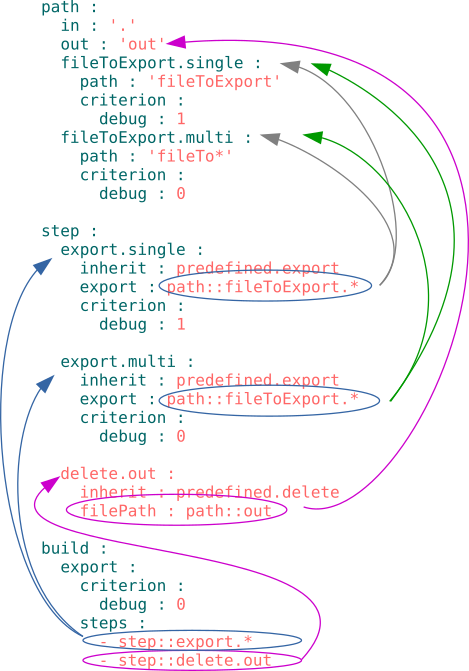
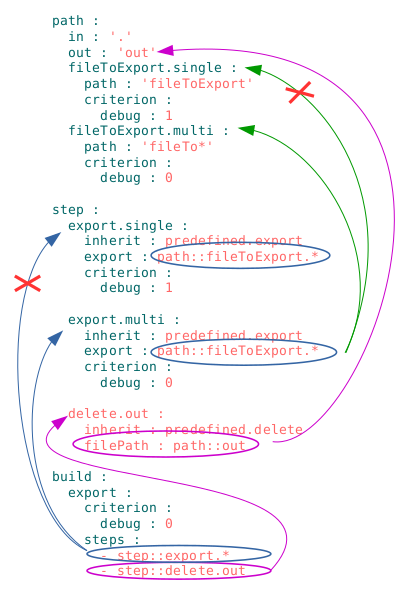
Correct selector concept

Changed region(s): [[0.0, 0.0, 1.0, 1.0], [0.5521, 0.18, 0.6973, 0.24]]

diff --git a/doc/version2.ukr/concept/Selector.md b/doc/version2.ukr/concept/Selector.md
@@ -10,7 +10,7 @@
 
 ![selector.png](./Images/selector.png)
 
-На рисунку в збірці `export` використовується два види селекторів. Селектор `step::export.*` є ґлобом бо містить `*`, читається: "вибрати всі кроки, які починаються на `export.`". Цей селектро може обрати кроки `export.single` i `export.multi` (позначено синіми стрілками). Вибір кроку здійснюється [порівнянням мапи критеріонів](Criterions.md). Аналогічно здійснюється вибір шляху селектором `path::fileToExport.*` кроками `step::export.single` i `step::export.multi`.  
+На рисунку в збірці `export` використовується два види селекторів. Селектор `step::export.*` є ґлобом бо містить `*`, читається: "вибрати всі кроки, які починаються на `export.`". Цей селектро може обрати кроки `export.single` i `export.multi` (позначено синіми стрілками). Вибір кроку здійснюється [порівнянням мапи критеріонів](Criterions.md) - співпадає  крок `export.multi`. Аналогічно здійснюється вибір шляху селектором `path::fileToExport.*` в кроці `step::export.multi`.  
 
 Селектори `step::delete.out` в збірці `export` і `path::out` в кроці `delete.out` - прості - мають пряме посилання на ресурс.  В `will-файлі` використовуються селектори вигляду `Тип ресурса :: Назва ресурса`.
 
@@ -38,9 +38,9 @@ step :
       debug : 0
 ```
 
-Крок `step::export` повинен вибрати один шлях `path::out.debug`. Так, як це цілком прогнозований і очікуваний результат то ророзбник помістив в селектро `path::out.*=1` асерт `=1`. Це гарантуватиме викидання помилки, якщо та трапиться і за цим селектором буде знайдено більше або менше одного шляху. Наприклад якщо в шляхах ну бед вказано критеріон `debug` тоді буде знайдено обидва шляхи і асерт викене помилку.
+Крок `step::export` повинен вибрати один шлях `path::out.debug`. Так, як це цілком прогнозований і очікуваний результат то ророзбник помістив в селектор `path::out.*=1` асерт `=1`. Це гарантуватиме викидання помилки, якщо та трапиться і за цим селектором буде знайдено більше або менше одного шляху. Наприклад, якщо в шляхах не буде вказано критеріон `debug`, тоді буде знайдено обидва шляхи і асерт викене помилку.
 
-За селектром із ґлобом можливо знайти більше одного або навіть жодного ресурса. Якщо розробникові відомо, скільки селектор із ґлобом має знайти ресурсів, то він може вказати це число в якості асерта в селекторі і при виконанні утиліта помітивши, що прогноз розробника не підтвердився викине помилку. Лишати асерти всюди, де точно відомо, який має бути результат виконання -- гарна практика розробки програмного забезпечення. Ґлоб з ассертом - спеціально накладене розробнико обмеження на виконання для попередження непередбачуваних наслідків. Якщо ж селектор простий та нема ґлоба то і асерт не потрібен.    
+За селектром із ґлобом можливо знайти більше одного або навіть жодного ресурса. Якщо розробникові відомо, скільки селектор із ґлобом має знайти ресурсів, то він може вказати це число в якості асерта в селекторі і при виконанні утиліта помітивши, що прогноз розробника не підтвердився викине помилку. Лишати асерти всюди, де точно відомо, який має бути результат виконання -- гарна практика розробки програмного забезпечення. Ґлоб з ассертом - спеціально накладене розробником обмеження на виконання для попередження непередбачуваних наслідків. Якщо ж селектор простий та немає ґлобу то і асерт не потрібен.    
 
 ### Алгоритм перевірки асертів в селекторах
 
@@ -50,14 +50,10 @@ step :
 
 ### Використання ассертів
 
-Ассерт записуєтся після ґлобу та має вигляд `=n`, де `n` - позначає кількість входженнь. Якщо селектор має обирати один ресурс секції `will-файла` то використовується ассерт `=1`.
-
 ![asserts.png](./Images/asserts.png)
 
-kos : перепишіть це, будь ласка. Надто довго і не надто очевидний приклад.
-
-На рисунку селектор `step::export.*` в збірці `export` може виконати кроки `export.single` i `export.multi`. Через помилку в `will-файлі` (відсутність критеріонів в кроці `export.multi` - див. [критеріон](Criterions.md)) побудова буде зломана, оскільки, за один крок в сценарії збірки виконується один крок в секції `step`. Без ассертів утиліта `willbe` видасть повідомлення про помилку, яку буде складно локалізувати, а при використанні ассертів в термінал виводиться повідомлення про місце і ресурси, в яких виникла помилка.  Також, розробник обмежив кількість входжень файлів, які починаються на `fileTo` п'ятьма файлами (поле `path: 'fileTo*=5'` в шляху `fileToExport.multi`). Якщо кількість входжень зміниться, то побудова буде відмінена.
+На рисунку зліва зображено варіант помилкового запису ресурсу. Через [відсутність критеріонів](Criterions.md) в кроці `export.multi` селектор `step::export.*=1` в збірці `export` може виконати кроки `export.single` i `export.multi`. Побудова буде зломана, а завдяки ассерту `=1` її можна швидко локалізувати і виправити `will-файл` як на рисунку справа.
 
 ![assert.message.png](./Images/assert.message.png)  
 
-На рисунку показано частину повідомлення про помилку в виборі ресурсів для `will-файла` на рисунку вище.  
+Рисунок показує частину повідомлення про помилку в виборі ресурсів для `will-файла` з помилковим записом ресурсів.  
